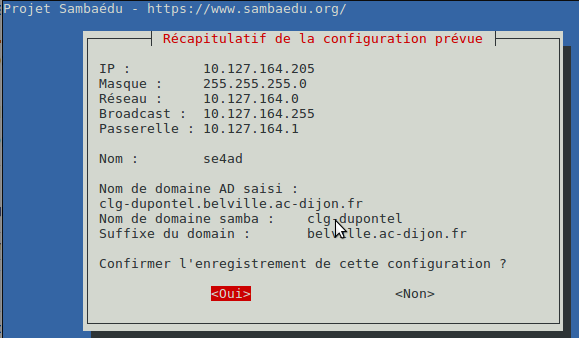
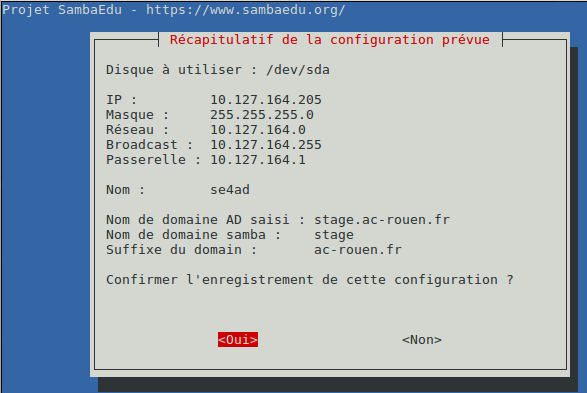
update doc for SE4-FS installation

diff --git a/doc-installation/gen-preseed-se4AD.rst b/doc-installation/gen-preseed-se4AD.rst
@@ -1,6 +1,6 @@
-=======================================================================================
-Génération d'un fichier ``preseed`` et installation automatique d'un serveur ``SE4-AD``
-=======================================================================================
+=================================================================================================
+Génération des fichiers ``preseed`` et installation automatique d'un serveur ``SE4-AD`` et SE4-FS
+=================================================================================================
 
 
 .. sectnum::
@@ -10,22 +10,23 @@ Génération d'un fichier ``preseed`` et installation automatique d'un serveur `
 Introduction
 ============
 
-Ce document a pour but de décrire précisément la procédure d'installation automatique d'un serveur ``SE4 Active Directory`` en utilisant un fichier ``preseed`` généré au préalable sur le serveur ``Se3`` contenant les données d'origine.
+Ce document a pour but de décrire précisément la procédure d'installation automatique d'un serveur ``SE4 Active Directory`` ou ``SE4 File Server`` en utilisant un fichier ``preseed`` généré au préalable sur le serveur ``Se3`` contenant les données d'origine.
 
-L’installation se déroule en trois temps :
+L’installation complète des deux serveurs se déroule selon l'ordre suivant :
 
-* Lancement du script permettant de générer le fichier ``preseed`` à partir des réponses fournies
-* Installation automatique du serveur avec le fichier ``preseed`` depuis un boot ``PXE`` ou un support ``CD`` / clé ``USB``
-* La finalisation de la configuration du serveur sous ``Debian Stretch`` avec réintégration des données ``LDAP`` précédentes et peuplement de l'annuaire Active Directory ``AD``
+* Lancement du script permettant de générer les fichiers ``preseed`` à partir des réponses fournies
+* Installation automatique du serveur SE4-AD avec le fichier ``preseed`` depuis un boot ``PXE`` ou un support ``CD`` / clé ``USB``, puis après reboot, la finalisation de sa configuration avec réintégration des données ``LDAP`` issues du SE3 d'origine et peuplement de l'annuaire Active Directory ``AD``
+* Installation automatique du serveur SE4-FS puis configuration de ce dernier selon des modalités similaires. A noter qu'il est indispensable d'avoir un Serveur Active Directory pleinement fonctionnel avant d'installer le se4-FS.
 
-Cette documentation s’attardera plus précisément sur les deux premières parties. La finalisation étant détaillée dans une autre documentation_ car elle n'est pas propre au type d'installation évoqué ici (serveur autonome ou virtualisé), mais s'applique également aux containers ``LXC``.
+
+Cette documentation s’attardera plus précisément sur la génération des preseed ainsi que la première partie de l'installation du se4-AD (ce sera similaire pour SE4-FS). La finalisation étant détaillée dans une autre documentation_ car elle n'est pas propre au type d'installation évoqué ici (serveur autonome ou virtualisé), mais s'applique également aux containers ``LXC``.
  
 
 .. _documentation: install-se4AD.rst
 
 
-Déroulement du script générant le fichier ``preseed``
-=====================================================
+Déroulement du script générant les fichiers ``preseed``
+=======================================================
 
 À partir du moment où le paquet ``sambaedu-config`` est installé, le script se trouve dans le dossier ``/usr/share/se3/sbin``.
 
@@ -48,10 +49,17 @@ Après le message de bienvenue, un court résumé des paramètres réseau actuel
 Ces valeurs serviront de base pour la configuration réseau du serveur ``AD``. Si elles ne sont pas correctes, il suffit de répondre ``non``. Dans ce cas il sera possible de préciser les bonnes valeurs une par une.
 
 
-Paramétrage réseau du futur ``SE4-AD``
---------------------------------------
+Paramétrage du futur ``SE4-AD``
+-------------------------------
 
-Viennent ensuite quelques questions sur la configuration réseau.
+Viennent ensuite quelques questions sur la configuration du serveur SE4-AD.
+
+Choix du disque pour l'installation
+...................................
+
+La première chose à indiquer est l'unité de disque sur laquelle l'installation sera effectuée. Sauf cas particulier, il suffit de confirmer le choix par défaut. 
+
+.. figure:: images/gen_preseed_se4ad_disk_choice.png
 
 
 Choix d'une adresse ``IP`` et d'un nom
@@ -82,38 +90,97 @@ Ce nom de domaine devra être composé d'au moins deux parties séparées par un
 .. figure:: images/gen_preseed5.png
 
 
-Résumé des paramètres avant génération du fichier preseed
-.........................................................
+Résumé des paramètres
+.....................
 
 Un récapitulatif de l'ensemble des paramètres saisis précédemment est affiché :
 
 .. figure:: images/gen_preseed6.png
 
-Si tout paraît correct, on peut confirmer. Dans le cas contraire, il sera proposé de corriger chaque paramètre.
+Si tout paraît correct, on peut confirmer. Dans le cas contraire, il sera proposé de corriger individuellement chaque paramètre.
+
+Paramétrage du futur ``SE4-FS``
+-------------------------------
+
+Le script va désormais proposer la pré-configuration du serveur SE4-FS. Sauf cas particulier, on procédera également à la génération du ``preseed`` pour ce serveur.
+
+.. figure:: images/gen_preseed_se4fs_confirm.png
+
+Choix d'une adresse ``IP`` et d'un nom
+......................................
+
+On commence par saisir l'``IP`` du serveur ``Se4-FS``. S'il est dans le même subnet que l'actuel serveur ``Se3``, il suffit de compléter le début de l'``IP`` suggérée.
+
+.. figure:: images/gen_preseed_se4fs_ip.png
+
+Puis on confirme son nom.
+
+.. figure:: images/gen_preseed_se4fs_name.png
+
+Un résumé des paramètres réseau est ensuite affiché.
 
 
-Génération du fichier ``preseed`` et configuration du serveur ``TFTP``
-----------------------------------------------------------------------
+.. figure:: images/gen_preseed_se4fs_lan.png
 
-À partir des éléments saisis précédemment, le script va déposer le fichier ``preseed`` ainsi que les fichiers de configuration nécessaires à l'installation dans le dossier ``/var/www/diconf`` les rendant ainsi disponibles sur le serveur web du ``Se3``. La configuration du serveur ``TFTP`` du ``Se3`` est également modifiée.
+
+Choix du disque et taille des partitions
+........................................
+
+On commence par choisir le disque à utiliser pour l'installation
+
+.. figure:: images/gen_preseed_se4fs_disk_choice.png
+
+Vient ensuite le choix de la tailles de partitions. La seconde valeur appelée ``optimale`` est la plus importante car c'est celle que l'on désire obtenir. Le programme de partitionnement essaiera de fixer cette dernière prioritairement dans la mesure du possible.
+
+On paramètre la partition racine. Les valeurs par défaut peuvent être appliquées
+
+.. figure:: images/gen_preseed_se4fs_partroot
+
+puis la partition /var. Les valeurs par défaut peuvent être appliquées
+
+.. figure:: images/gen_preseed_se4fs_partvar
+
+puis la partition /home. Les valeurs sont à adapter en fonction de la taille du disque.
+
+.. figure:: images/gen_preseed_se4fs_parthome
+
+Et enfin la partition /var/sambaedu. Les valeurs sont à adapter 
+
+.. figure:: images/gen_preseed_se4fs_partvarse
+
+La configuration se termine par un résumé des paramètre saisies à l'exception de la partition swap qui n'est pas paramétrable.
+
+
+.. figure:: images/gen_preseed_se4fs_recap_part
+
+
+
+Export des données, génération des ``preseed`` et configuration du serveur ``PXE / TFTP``
+-----------------------------------------------------------------------------------------
+
+À partir des éléments saisis précédemment, le script va exécuter plusieurs tâches :
+
+* Export des données importantes comme les données ldap, les fichiers tdb de samba ou les réservation DHCP
+* Ecriture des fichiers ``preseed`` et fichiers de configuration nécessaires à l'installation dans le dossier ``/var/www/diconf`` les rendant ainsi disponibles sur le serveur web du ``Se3``. 
+* Modification de la configuration du serveur ``TFTP`` du ``Se3`` afin que ce dernier puisse être utilisé pour installer ``SE4-AD`` et ``SE4-FS`` en mode ``PXE``.
 
 .. figure:: images/gen_preseed7.png
 
-Tous les fichiers sont en place pour démarrer l'installation automatique de notre ``se4-AD``. Un message de confirmation :
+Tous les fichiers sont en place pour démarrer l'installation automatique de notre ``se4-AD`` comme de notre ``se4-FS`` . Un message de confirmation indique comment procéder.
 
 .. figure:: images/gen_preseed8.png
 
-Vous pouvez effectuer l'installation de deux façons : 
+Vous pouvez donc effectuer l'installation de deux façons : 
 
 * En utilisant le fichier ``preseed`` généré via le serveur ``TFTP`` du ``Se3`` en bootant en ``PXE`` et en choisissant l'option adéquate, détaillée plus loin dans ce document.
 * En utilisant le fichier ``preseed`` généré et son propre support d'installation ``Debian Stretch`` sur ``CD`` ou clé ``USB``.
 
 
 
-Installation du serveur en utilisant le fichier ``preseed``
-===========================================================
+Installation du SE4-AD ou SE4-FS en utilisant son fichier ``preseed``
+=====================================================================
 
-Il s'agit maintenant d'utiliser le fichier ``preseed`` généré précédemment ; deux possibilités sont possibles comme l'a détaillé le message précédent.
+Il s'agit maintenant d'utiliser les fichiers ``preseed`` généré précédemment. **Leur utilisation étant identique, seul le cas  du SE4-AD sera détaillé**.
 
 
 Choix du support d'installation
@@ -151,10 +218,10 @@ puis ``Installation`` et enfin ``Netboot Debian Stretch SE4-AD (amd64)``. Seule 
 .. figure:: images/se4_preseed_tftp_install.png
 
 
-Déroulement de la suite de l'installation
-------------------------------------------
+Déroulement de la suite de l'installation : cas du SE4-AD
+-------------------------------------------------------------
 
-Quelque soit la méthode employée (``PXE`` / ``CD`` / clé ``USB``), une fois le fichier ``preseed`` chargé, la suite est automatique. Vous trouverez, ci-dessous, quelques commentaires sur certaines étapes de cette installation, à commencer par le partitionnement.
+Quelque soit la méthode employée (``PXE`` / ``CD`` / clé ``USB``), une fois le fichier ``preseed`` chargé, la suite est automatique. Vous trouverez, ci-dessous, quelques commentaires sur certaines étapes de cette installation.
 
 
 Partitionnement
@@ -201,5 +268,9 @@ Vient enfin le message final, signalant que le serveur est prêt à rebooter.
 Il vous reste à lancer cette machine et vous y connecter en tant que ``root`` afin d'en finaliser sa configuration automatique. Pour cela, on se reportera à la documentation_ détaillant les étapes nécessaires à l'obtention de votre ``SE4-AD`` pleinement fonctionnel.
 
 .. _documentation: install-se4AD.rst
+
+Une documentation similaire  détaille quant à elle la `finalisation de l'installation du serveur SE4-FS`_
+
+.. _finalisation de l'installation du serveur SE4-FS: install-se4FS.rst
 
 
